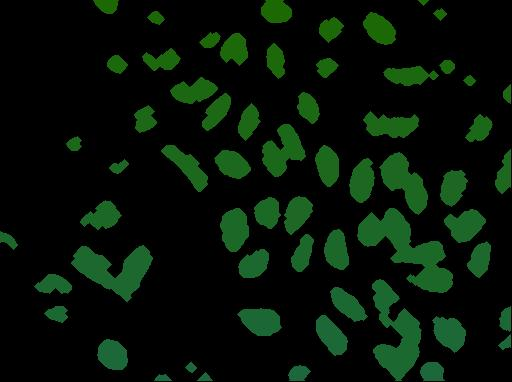
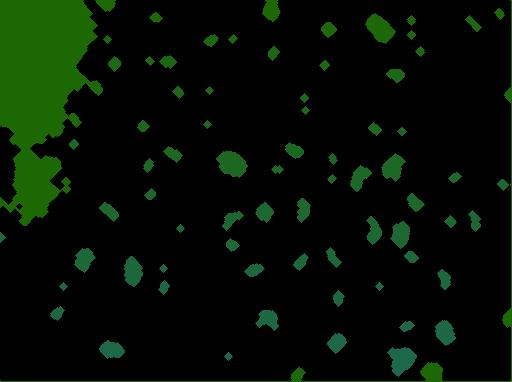
Cleaned some code, adding new image manipulation methods

diff --git a/ImageProcessor.java b/ImageProcessor.java
@@ -372,30 +372,32 @@ public class ImageProcessor {
             }
         }
 
+        input = subtractImages(input, inputDerivative);
+
         // Subtract second diverative from the orginal image
-        for (int v = 0; v < height; v++) {
-            for (int u = 0; u < width; u++) {
+        //for (int v = 0; v < height; v++) {
+        //    for (int u = 0; u < width; u++) {
 
-                p = input.getRGB(u, v);
-                inputDirValue = inputDerivative.getRGB(u, v);
+        //        p = input.getRGB(u, v);
+        //        inputDirValue = inputDerivative.getRGB(u, v);
 
-                b = p & 0xff;
-                inputderValueBlue = inputDirValue & 0xff;
+        //        b = p & 0xff;
+        //       inputderValueBlue = inputDirValue & 0xff;
 
-                b = b - inputderValueBlue;// Subtracing values
+        //        b = b - inputderValueBlue;// Subtracing values
 
-                if (b > 255) {
-                    b = 255;
-                } else if (b < 0) {
-                    b = 0;
-                }
+        //        if (b > 255) {
+        //            b = 255;
+        //        } else if (b < 0) {
+        //            b = 0;
+        //        }
 
-                // replace RGB value with avg
-                p = (b << 24) | (b << 16) | (b << 8) | b;
+        //       // replace RGB value with avg
+        //       p = (b << 24) | (b << 16) | (b << 8) | b;
 
-                input.setRGB(u, v, p);
-            }
-        }
+        //       input.setRGB(u, v, p);
+        //    }
+        //}
 
         return input;
     }
@@ -570,6 +572,92 @@ public class ImageProcessor {
         }
 
         return input;
+    }
+
+    public static BufferedImage outlineTransform(BufferedImage input){
+        BufferedImage copy = deepCopy(input);
+
+        copy = meanTransform(copy);
+
+        copy = subtractImages(copy, input);
+
+        copy = thresholdTransform(copy, 1);
+
+        copy = invertTransform(copy);
+
+        return copy;
+    }
+
+    public static BufferedImage subtractImages(BufferedImage original, BufferedImage subtract){
+        int p, b, width, height, subP, subB;
+        width = original.getWidth();
+        height = original.getHeight();
+
+
+        // Subtract second diverative from the orginal image
+        for (int v = 0; v < height; v++) {
+            for (int u = 0; u < width; u++) {
+
+                p = original.getRGB(u, v);
+                subP = subtract.getRGB(u, v);
+
+                b = p & 0xff;
+                subB = subP & 0xff;
+
+                b = b - subB;// Subtracing values
+
+                if (b > 255) {
+                    b = 255;
+                } else if (b < 0) {
+                    b = 0;
+                }
+
+                // replace RGB value with avg
+                p = (b << 24) | (b << 16) | (b << 8) | b;
+
+                original.setRGB(u, v, p);
+            }
+        }
+        return original;
+    }
+
+    public static BufferedImage meanTransform(BufferedImage input){
+        // Only works on pixels were R = G = B i.e. it is a gray scale image
+        int height = input.getHeight();
+        int width = input.getWidth();
+        int b, p;
+        int filterSize = 1;
+        int meanValue = 0;
+        int counter = 0;
+
+        int[] weightsArray = {1,1,1,1,1,1,1,1,1};
+
+        BufferedImage copy = deepCopy(input);
+
+        for (int v = filterSize; v <= height - 2 - filterSize; v++) {
+            for (int u = filterSize; u <= width - 2 - filterSize; u++) {
+
+                // compute filter result for position (u,v):
+                for (int i = -filterSize; i <= filterSize; i++) {
+                    for (int j = -filterSize; j <= filterSize; j++) {
+                        p = input.getRGB(u + i, v + j);
+                        b = p & 0xff;
+                        meanValue += b;
+                        counter++;
+                    }
+                }
+
+                meanValue = meanValue / 9;
+                counter = 0;
+                
+
+                p = (meanValue << 24) | (meanValue << 16) | (meanValue << 8) | meanValue;
+
+                copy.setRGB(u, v, p);
+                meanValue = 0;
+            }
+        }
+        return copy;
     }
 
 

diff --git a/comp/ImageProcessor.java b/comp/ImageProcessor.java
@@ -372,30 +372,32 @@ public class ImageProcessor {
             }
         }
 
+        input = subtractImages(input, inputDerivative);
+
         // Subtract second diverative from the orginal image
-        for (int v = 0; v < height; v++) {
-            for (int u = 0; u < width; u++) {
+        //for (int v = 0; v < height; v++) {
+        //    for (int u = 0; u < width; u++) {
 
-                p = input.getRGB(u, v);
-                inputDirValue = inputDerivative.getRGB(u, v);
+        //        p = input.getRGB(u, v);
+        //        inputDirValue = inputDerivative.getRGB(u, v);
 
-                b = p & 0xff;
-                inputderValueBlue = inputDirValue & 0xff;
+        //        b = p & 0xff;
+        //       inputderValueBlue = inputDirValue & 0xff;
 
-                b = b - inputderValueBlue;// Subtracing values
+        //        b = b - inputderValueBlue;// Subtracing values
 
-                if (b > 255) {
-                    b = 255;
-                } else if (b < 0) {
-                    b = 0;
-                }
+        //        if (b > 255) {
+        //            b = 255;
+        //        } else if (b < 0) {
+        //            b = 0;
+        //        }
 
-                // replace RGB value with avg
-                p = (b << 24) | (b << 16) | (b << 8) | b;
+        //       // replace RGB value with avg
+        //       p = (b << 24) | (b << 16) | (b << 8) | b;
 
-                input.setRGB(u, v, p);
-            }
-        }
+        //       input.setRGB(u, v, p);
+        //    }
+        //}
 
         return input;
     }
@@ -570,6 +572,92 @@ public class ImageProcessor {
         }
 
         return input;
+    }
+
+    public static BufferedImage outlineTransform(BufferedImage input){
+        BufferedImage copy = deepCopy(input);
+
+        copy = meanTransform(copy);
+
+        copy = subtractImages(copy, input);
+
+        copy = thresholdTransform(copy, 1);
+
+        copy = invertTransform(copy);
+
+        return copy;
+    }
+
+    public static BufferedImage subtractImages(BufferedImage original, BufferedImage subtract){
+        int p, b, width, height, subP, subB;
+        width = original.getWidth();
+        height = original.getHeight();
+
+
+        // Subtract second diverative from the orginal image
+        for (int v = 0; v < height; v++) {
+            for (int u = 0; u < width; u++) {
+
+                p = original.getRGB(u, v);
+                subP = subtract.getRGB(u, v);
+
+                b = p & 0xff;
+                subB = subP & 0xff;
+
+                b = b - subB;// Subtracing values
+
+                if (b > 255) {
+                    b = 255;
+                } else if (b < 0) {
+                    b = 0;
+                }
+
+                // replace RGB value with avg
+                p = (b << 24) | (b << 16) | (b << 8) | b;
+
+                original.setRGB(u, v, p);
+            }
+        }
+        return original;
+    }
+
+    public static BufferedImage meanTransform(BufferedImage input){
+        // Only works on pixels were R = G = B i.e. it is a gray scale image
+        int height = input.getHeight();
+        int width = input.getWidth();
+        int b, p;
+        int filterSize = 1;
+        int meanValue = 0;
+        int counter = 0;
+
+        int[] weightsArray = {1,1,1,1,1,1,1,1,1};
+
+        BufferedImage copy = deepCopy(input);
+
+        for (int v = filterSize; v <= height - 2 - filterSize; v++) {
+            for (int u = filterSize; u <= width - 2 - filterSize; u++) {
+
+                // compute filter result for position (u,v):
+                for (int i = -filterSize; i <= filterSize; i++) {
+                    for (int j = -filterSize; j <= filterSize; j++) {
+                        p = input.getRGB(u + i, v + j);
+                        b = p & 0xff;
+                        meanValue += b;
+                        counter++;
+                    }
+                }
+
+                meanValue = meanValue / 9;
+                counter = 0;
+                
+
+                p = (meanValue << 24) | (meanValue << 16) | (meanValue << 8) | meanValue;
+
+                copy.setRGB(u, v, p);
+                meanValue = 0;
+            }
+        }
+        return copy;
     }
 
 

diff --git a/Counter.java b/Counter.java
@@ -57,7 +57,6 @@ public class Counter {
 				img = ImageProcessor.thresholdTransform(img, 30);
 				addGuiData(img,"Threshold Transform");
 
-
 				//Post proccessing cleanup.
 				img = ImageProcessor.openTransform(img, 4);
 				addGuiData(img, "Open 3x");
@@ -65,10 +64,11 @@ public class Counter {
 				img = ImageProcessor.closeTransform(img, 3);
 				addGuiData(img, "Close 3x");
 
-
+				
 				//Labelling and cellcount.
 				cellCount = ImageProcessor.regionLabel(ImageProcessor.binaryTransform(img));
 				addGuiData(img,"Region Count");
+				
 
 
 				//Displaying out GUI

diff --git a/comp/Counter.java b/comp/Counter.java
@@ -57,7 +57,6 @@ public class Counter {
 				img = ImageProcessor.thresholdTransform(img, 30);
 				addGuiData(img,"Threshold Transform");
 
-
 				//Post proccessing cleanup.
 				img = ImageProcessor.openTransform(img, 4);
 				addGuiData(img, "Open 3x");
@@ -65,10 +64,11 @@ public class Counter {
 				img = ImageProcessor.closeTransform(img, 3);
 				addGuiData(img, "Close 3x");
 
-
+				
 				//Labelling and cellcount.
 				cellCount = ImageProcessor.regionLabel(ImageProcessor.binaryTransform(img));
 				addGuiData(img,"Region Count");
+				
 
 
 				//Displaying out GUI
